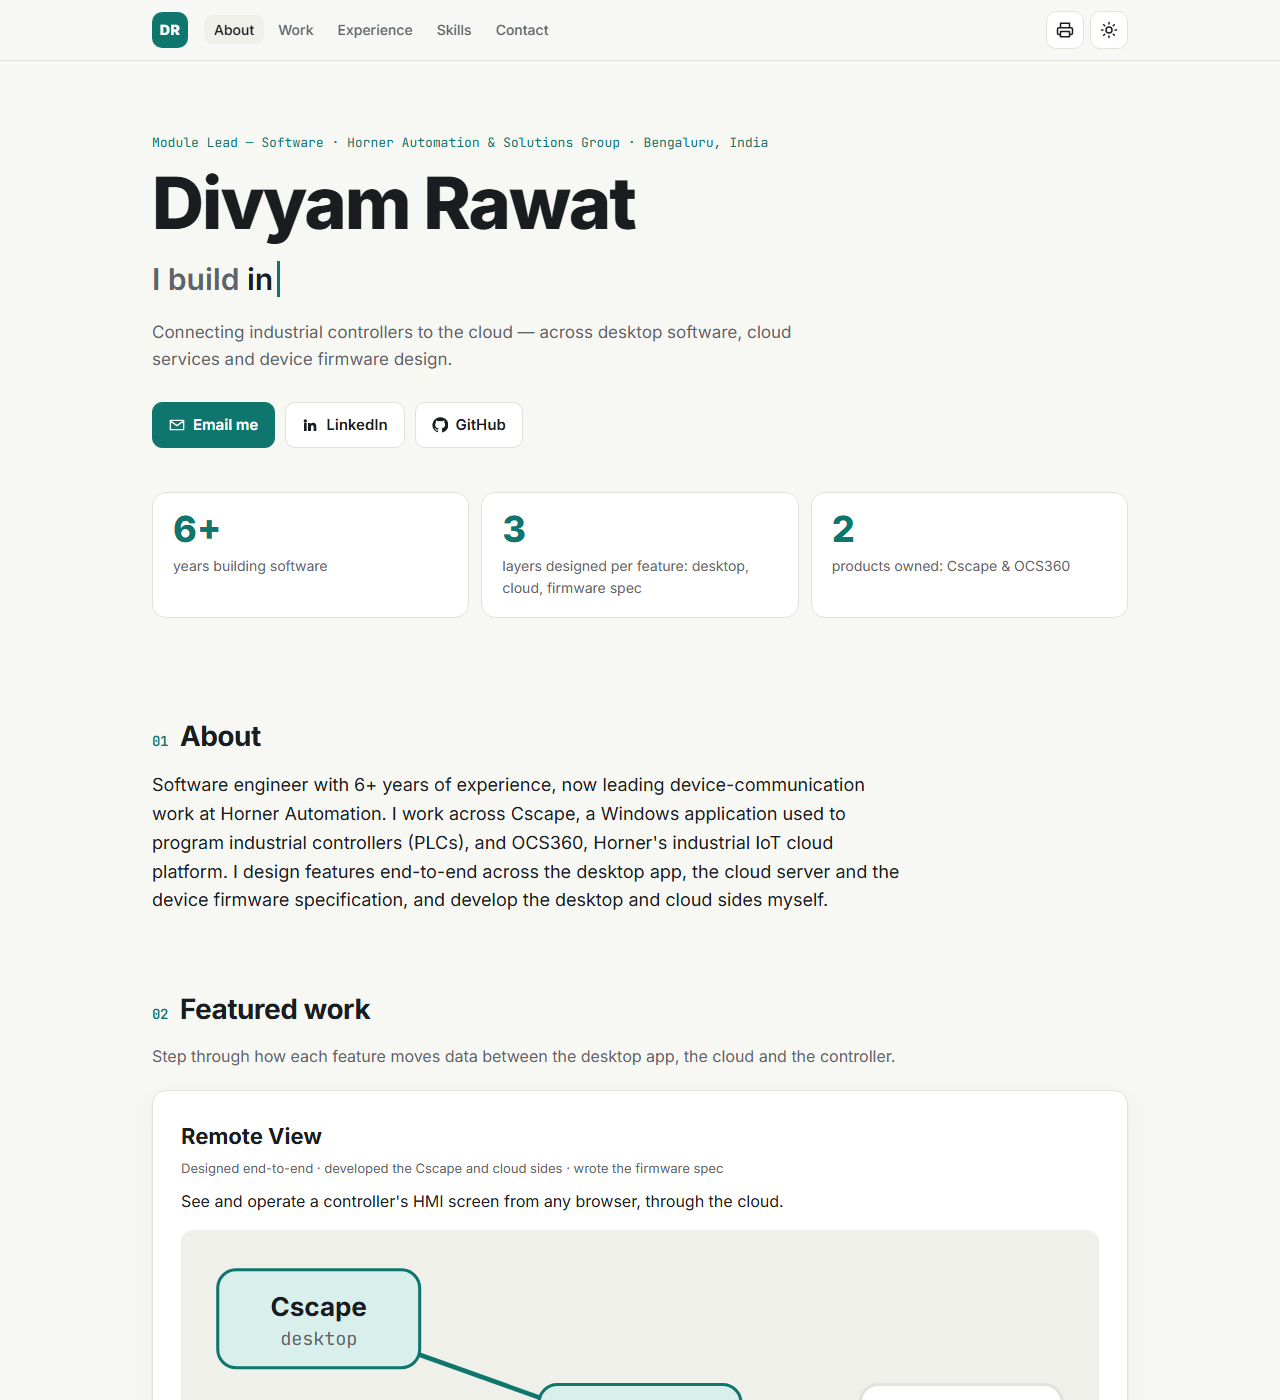
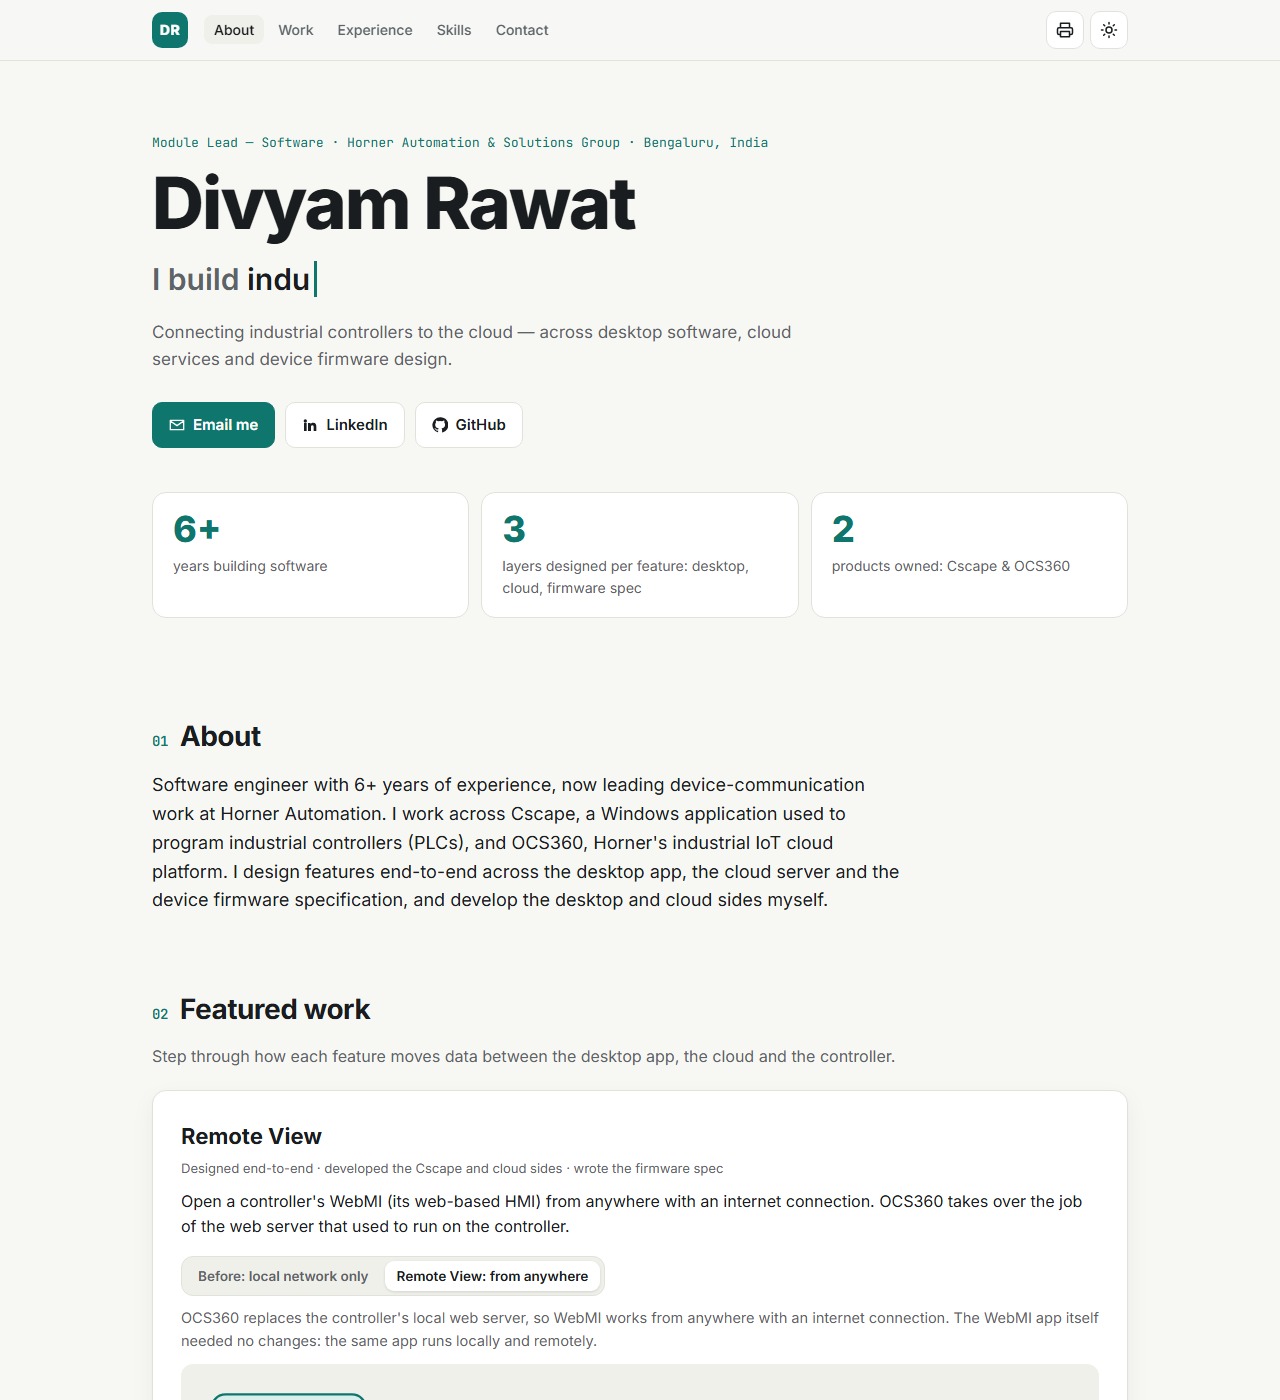
Refresh README preview and project tree

diff --git a/README.md b/README.md
@@ -24,7 +24,7 @@ Plain HTML, CSS and JavaScript. No framework, no build step and no dependencies 
 ## Project structure
 
 ```
-portfolio/
+drawat123.github.io/
 ├── index.html       # page skeleton
 ├── styles.css       # layout, themes, print styles
 ├── app.js           # renders content; diagrams, filter, timeline, theme
